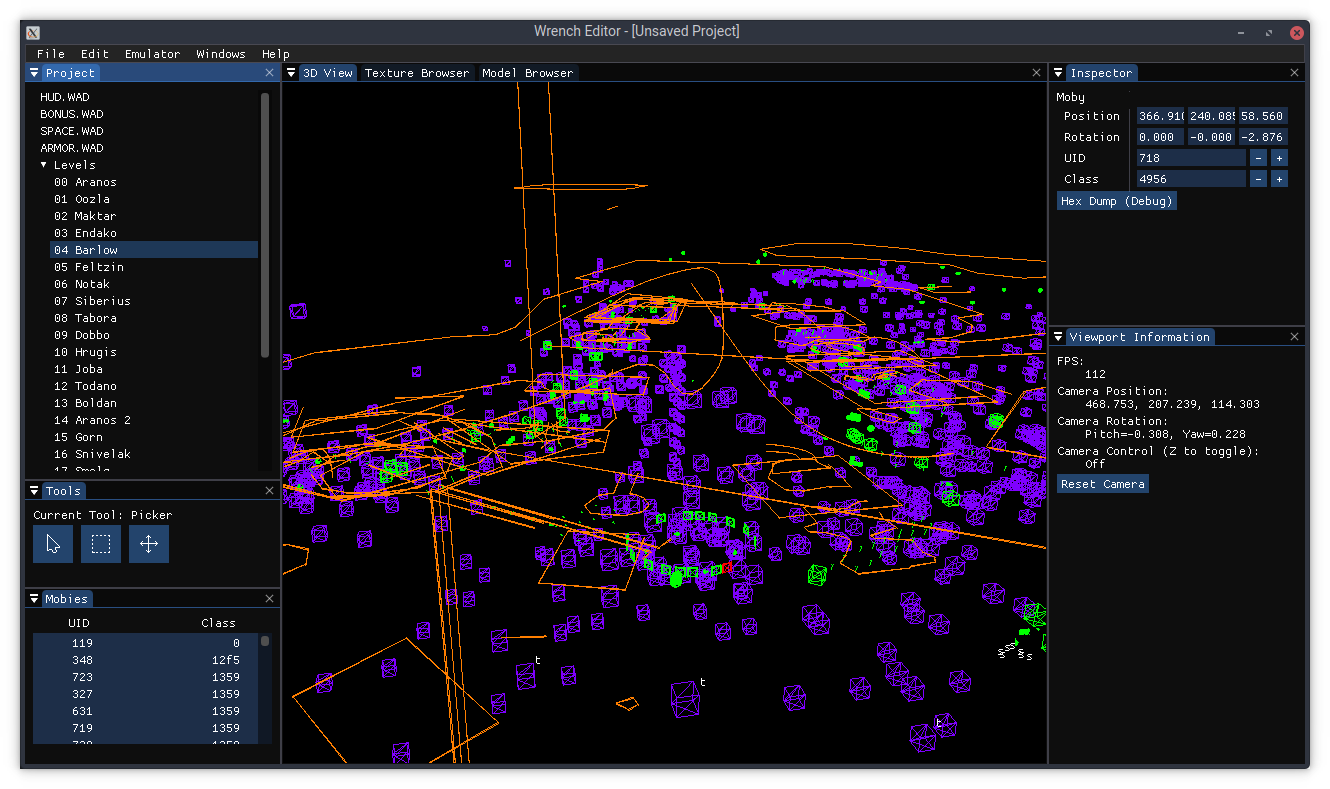
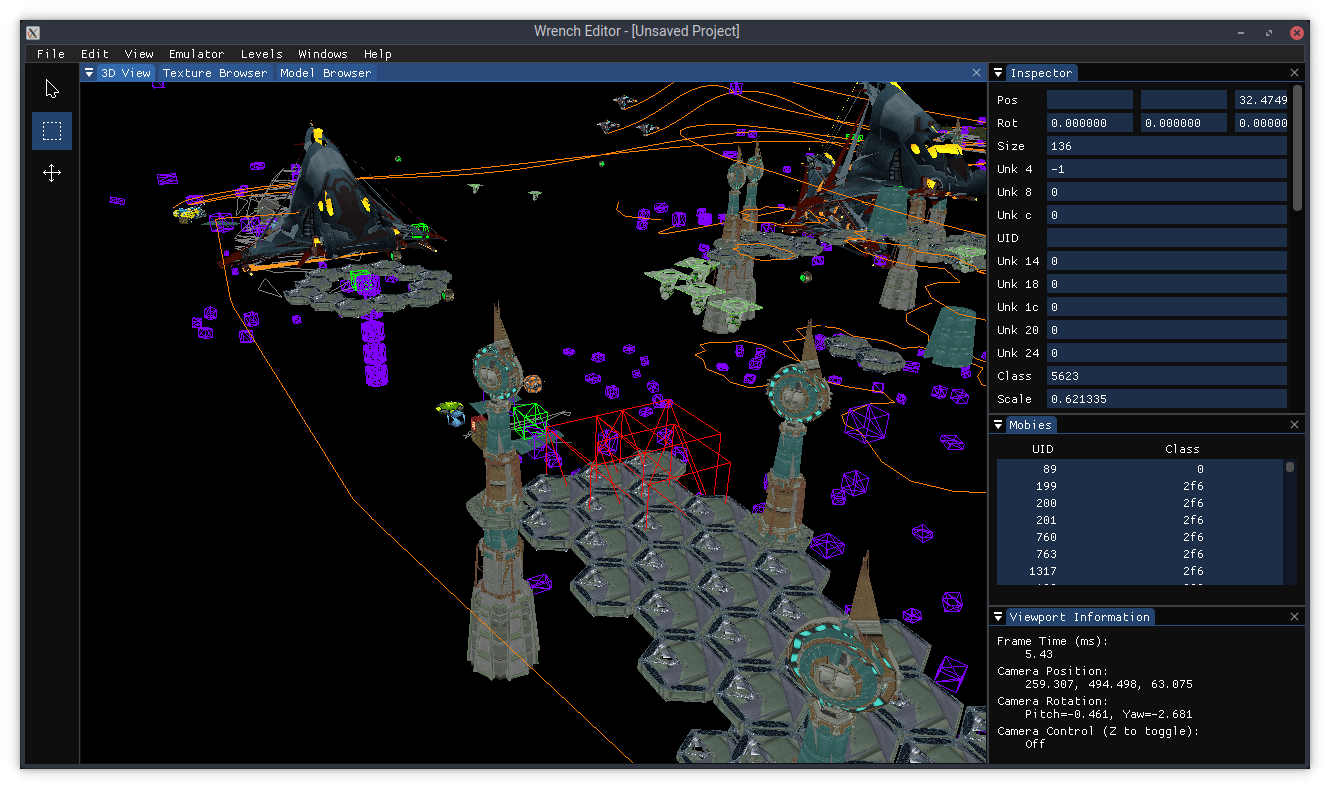
Update readme and screenshots

diff --git a/README.md b/README.md
@@ -1,31 +1,25 @@
 # wrench
 
-A set of modding tools for the Ratchet & Clank PS2 games.
+A set of modding tools for the Ratchet & Clank PS2 games. Work in progress.
 
 ## Screenshots
 
-![Level editor](screenshots/editor.png)
-![Texture browser](screenshots/texture-browser.png)
+![Level Editor](screenshots/editor.png)
+![Texture Browser](screenshots/texture-browser.png)
+![Model Browser](screenshots/model-browser.png)
 
 ## Features
 
-- View levels from Ratchet & Clank 2 and 3.
-- Store mods as .wrench files that double as project files and compression-aware patch files.
+- View levels from Ratchet & Clank 2, 3 and Deadlocked.
+- Edit levels from Ratchet & Clank 2 and go ingame.
+	- Caveat: The patching system is currently very hacky and some things may not work.
 - Extract and replace certain textures.
-- Extract racpak (*.WAD) archives.
 - Decompress and recompress WAD segments (not to be confused with the *.WAD files on the game's filesystem).
 - A number of command-line tools for testing.
 
 ## Compatibility
 
-This project is probably not very usable yet, however the following game
-releases are currently somewhat supported:
-
-| ELF Identifier | Title                              | Edition     | Region | Status                     |
-|----------------|------------------------------------|-------------|--------|----------------------------|
-| SCES_516.07    | Ratchet & Clank: Locked and Loaded | Black Label | Europe | Skins, HUD images, levels. |
-| SCES_524.56    | Ratchet & Clank 3                  | Black Label | Europe | Skins, levels.             |
-| SCES_532.85    | Ratchet: Gladiator                 | Black Label | Europe | Skins only.                |
+This project is probably not very usable yet, however R&C2, R&C3 and Deadlocked are currently somewhat supported, with R&C2 being supported the best. I've tested the PAL releases, however any of them should work.
 
 ## Building
 
